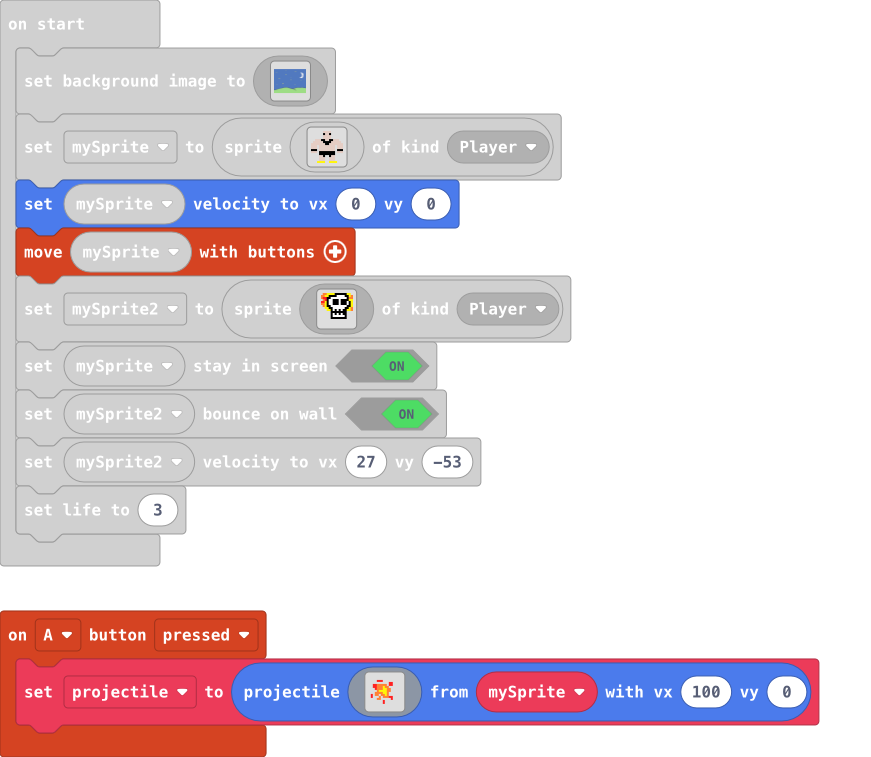
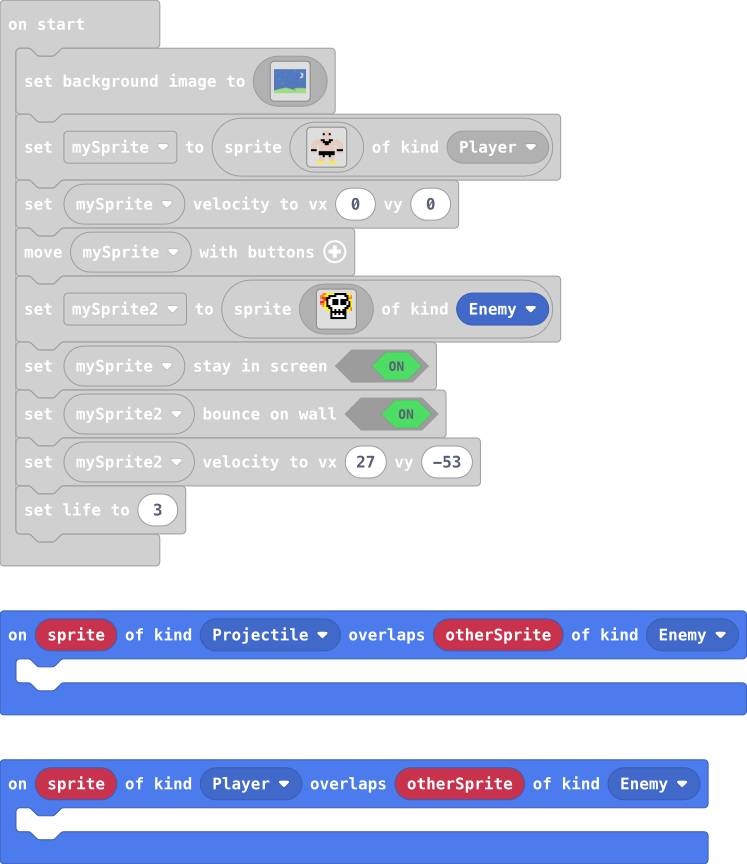
Update main.blocks, main.ts

diff --git a/main.ts b/main.ts
@@ -18,6 +18,12 @@ controller.A.onEvent(ControllerButtonEvent.Pressed, function () {
         . . . . . . . . . . . . . . . . 
         `, mySprite, 100, 0)
 })
+sprites.onOverlap(SpriteKind.Projectile, SpriteKind.Enemy, function (sprite, otherSprite) {
+	
+})
+sprites.onOverlap(SpriteKind.Player, SpriteKind.Enemy, function (sprite, otherSprite) {
+	
+})
 let projectile: Sprite = null
 let mySprite: Sprite = null
 scene.setBackgroundImage(assets.image`Tester`)
@@ -58,7 +64,7 @@ let mySprite2 = sprites.create(img`
     . . . . . . . . . . . . . . . . 
     . . . . . . . . . . . . . . . . 
     . . . . . . . . . . . . . . . . 
-    `, SpriteKind.Player)
+    `, SpriteKind.Enemy)
 mySprite.setStayInScreen(true)
 mySprite2.setBounceOnWall(true)
 mySprite2.setVelocity(27, -53)
